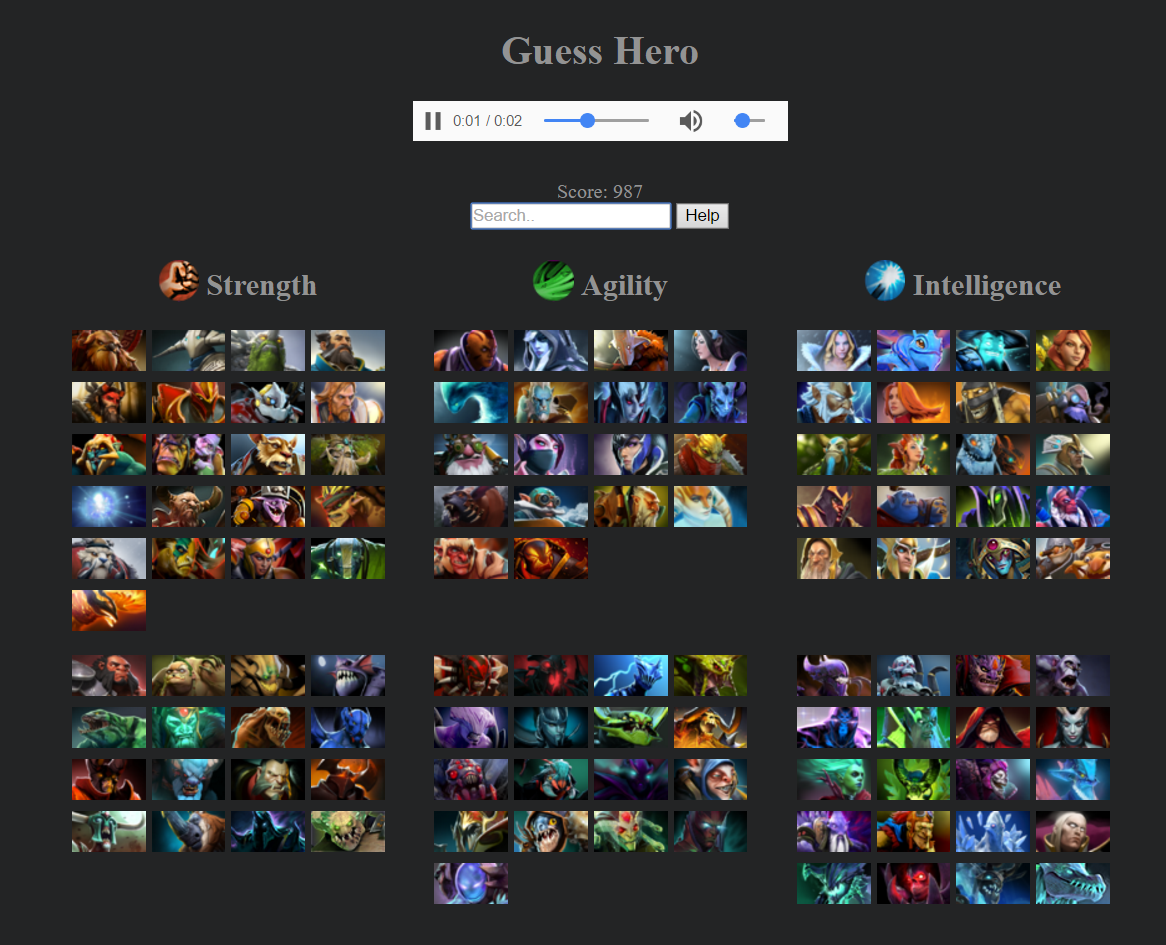
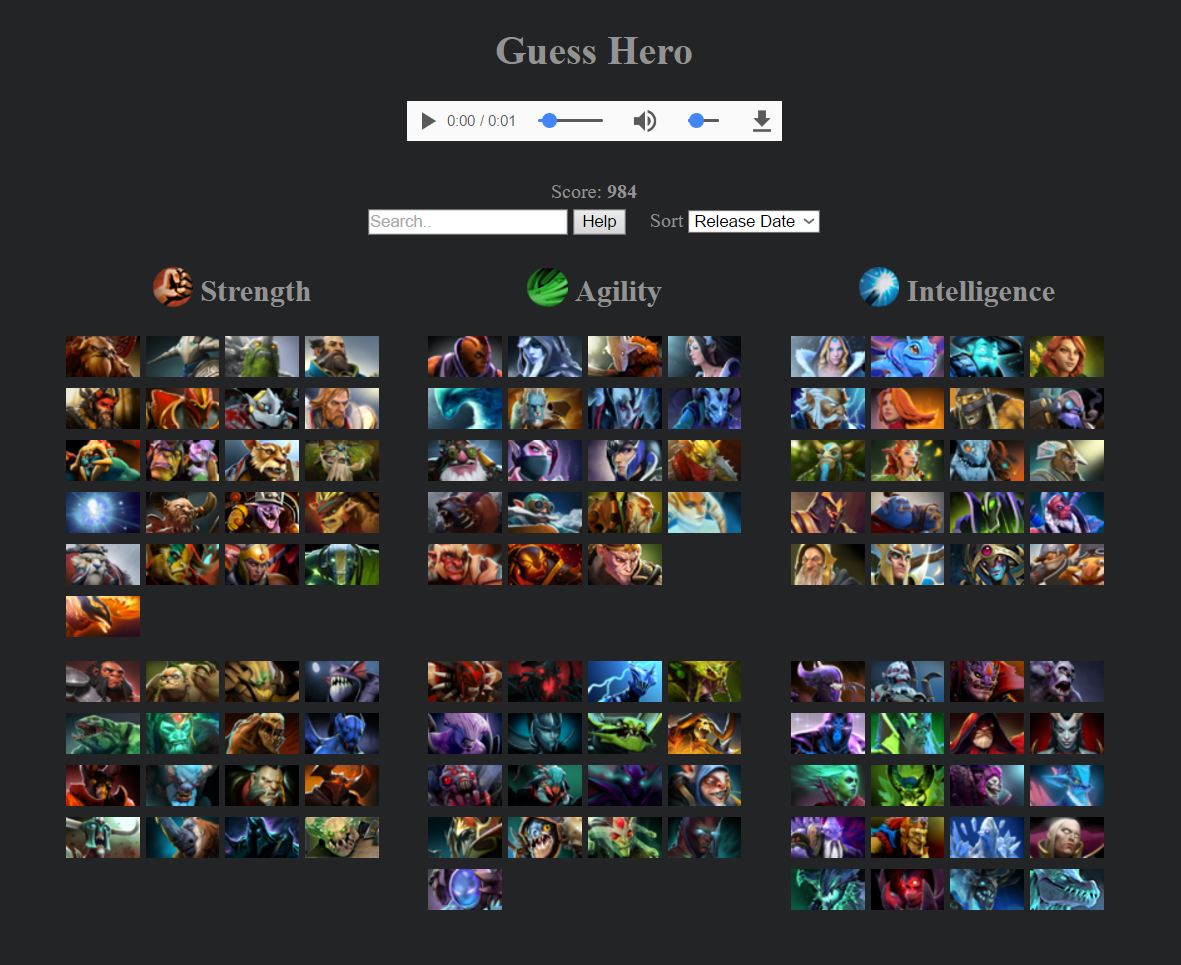
- fix hero group height issue
- update the readme screenshot

diff --git a/style.css b/style.css
@@ -64,7 +64,7 @@ body {
     padding: 0;
     list-style: none;
     width: 270px;
-    height: 250px;
+    min-height: 250px;
     text-align: left;
 }
 
